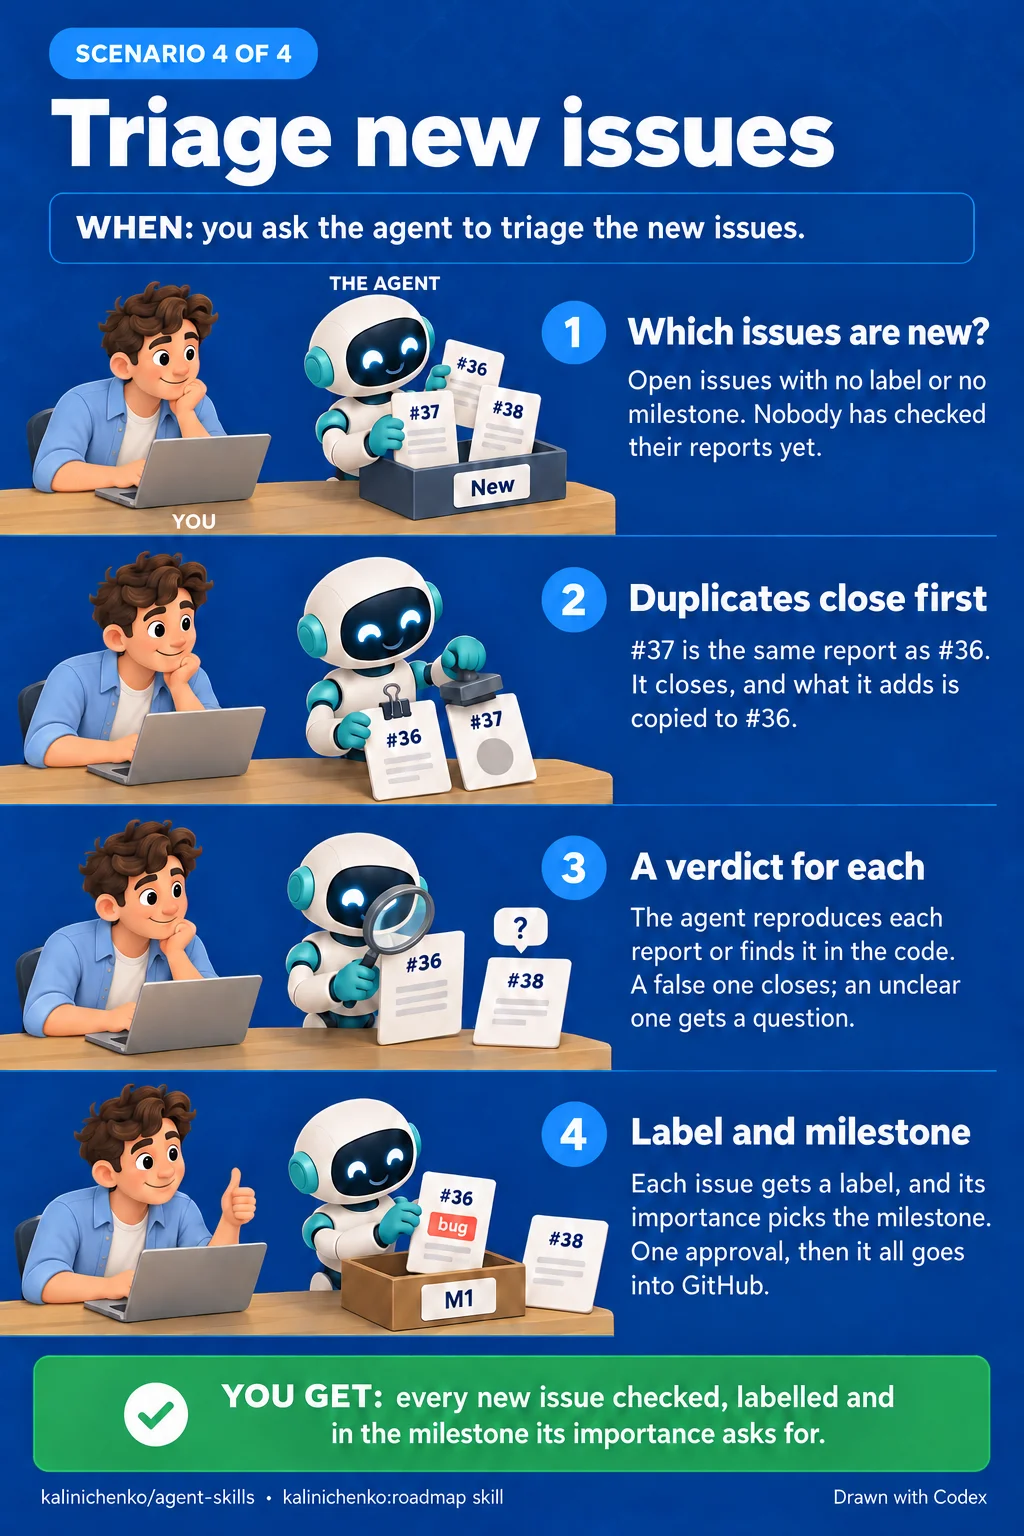
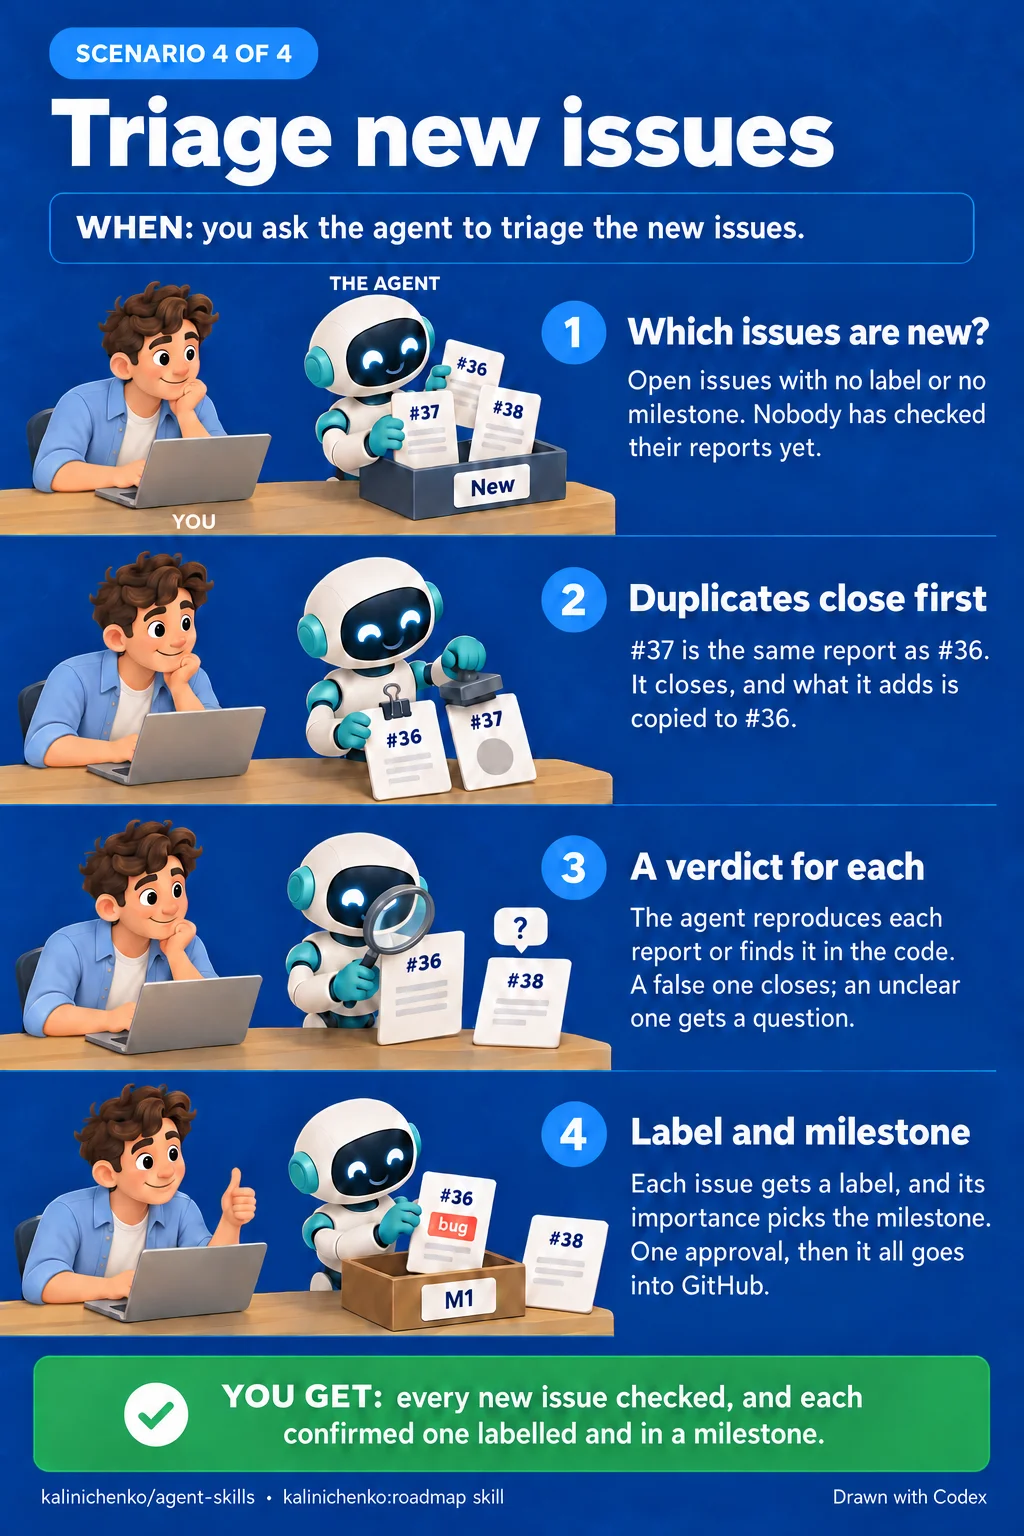
docs(roadmap): promise a milestone in the triage picture only for a confirmed issue
- Redraw the result box of 04-triage: an issue that closes or waits gets no milestone
- Change its brief block and the README alt text to the same words

diff --git a/docs/roadmap/brief.md b/docs/roadmap/brief.md
@@ -69,7 +69,7 @@ Trigger box: "WHEN: you ask the agent to triage the new issues."
 2. "Duplicates close first" — THE AGENT clips ticket "#37" behind ticket "#36" and puts a grey stamp with no text on "#37". Caption: "#37 is the same report as #36. It closes, and what it adds is copied to #36."
 3. "A verdict for each" — THE AGENT looks at ticket "#36" through a large magnifying glass; beside it, ticket "#38" has a small speech bubble with "?"; YOU watch from the laptop. Caption: "The agent reproduces each report or finds it in the code. A false one closes; an unclear one gets a question."
 4. "Label and milestone" — YOU give a thumbs-up; THE AGENT puts ticket "#36", with a small tag "bug", into box "M1"; ticket "#38" waits beside the box. Caption: "Each issue gets a label, and its importance picks the milestone. One approval, then it all goes into GitHub."
-Result box: "YOU GET: every new issue checked, labelled and in the milestone its importance asks for."
+Result box: "YOU GET: every new issue checked, and each confirmed one labelled and in a milestone."
 </image>
 
 <verification_loop>

diff --git a/skills/roadmap/README.md b/skills/roadmap/README.md
@@ -61,7 +61,7 @@ run in parallel, and what is left to close a milestone.
 
 ### Triage new issues
 
-![Triage new issues: you get every new issue checked, labelled and in the milestone its importance asks for](../../docs/roadmap/04-triage.webp)
+![Triage new issues: you get every new issue checked, and each confirmed one labelled and in a milestone](../../docs/roadmap/04-triage.webp)
 
 ## How it works
 
